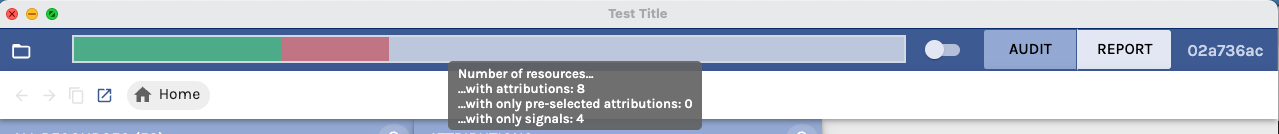
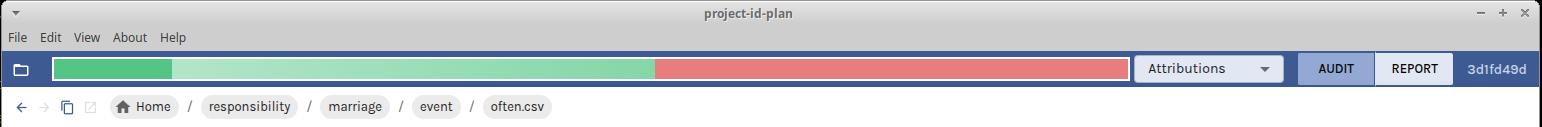
feat: add criticality to users guide

diff --git a/USER_GUIDE.md b/USER_GUIDE.md
@@ -64,15 +64,38 @@ to be recognized by the app.
 To open a `.opossum` file in the app, simply click the _Open File_ button on the left of the top bar (or on the entry in
 the _File_ menu with the same name).
 
+To quickly access recently opened Files, select the relevant file from the `Open Recent` submenu.
+
 ### Importing a File
 
 To import a legacy opossum file (`.json`/`.json.gz`) or a file produced by a scanner (e.g. a ScanCode Json file), click
-the _Import File_ item in the _File_ menu and select the desired file format from the submenu. You will be presented
+the _Import_ item in the _File_ menu and select the desired file format from the submenu. You will be presented
 with a dialog window where you can select the file that you wish to import. Because OpossumUI converts this file into a
 new `.opossum` file as part of the import process, you will also be prompted to select where this new `.opossum` file
 should be saved. Clicking the _Import_ button converts the file into a new `.opossum` file and opens it in OpossumUI.
 Please note that edits made through OpossumUI are **ONLY** saved in this new `.opossum` file, **NOT** in the file you
 selected for import.
+
+### Merging additional information
+
+To enrich your currently open file with additional information from a different scanner, open the _Merge_ item in the _File_ menu and select the desired file format.
+
+Note:
+
+- Merging a file will modify your currently open `.opossum` file and cannot be undone
+- Ensure that the paths in the merged file and the currently open file agree. Currently, there is no functionality to compensate differences.
+
+### Classifying signals
+
+To classify the severity of the various signals, OpossumUI supports two mechanisms.
+
+- **Criticality**: This classification encompasses three different levels:
+  - Non-critical/unknown
+  - Medium critical
+  - Highly critical
+- **Classification**: The classification allows the creator of the `.opossum` file to predefine a severity schema of the form: `severityLevel --> description`. `severityLevel` needs to be a positive integer. By convention, 0 implies that the signal can be used without issues and the severity rises with higher numbers.
+
+The relevant information needs to be already present in the `.opossum` files.
 
 ### Project Metadata
 
@@ -81,7 +104,7 @@ To view project metadata, open the `File` menu and select `Project Metadata`.
 ### Project Statistics
 
 To view project statistics, open the `File` menu and select `Project Statistics`. This opens a popup that shows various
-tables and pie charts summarizing the state of the project.
+charts summarizing the state of the project. Additionally, a table with detailed license statistics is provided.
 
 ### Exporting Formats
 
@@ -117,15 +140,16 @@ In the `Top Bar`, the following elements are present:
 
 - the _Open File_ button,
 - the `Progress Bar`,
-- the `Progress Bar Toggle`,
+- the `Progress Bar Dropdown`,
 - the `View Switch`,
 - the app version,
 - the path bar.
 
-The `Progress Bar` indicates how many files have manually received an attribution (dark green), how many have an automatically **pre-selected** attribution (lighter green with gradient), and how many files have a signal, but have not yet received an attribution (orange), with respect to the total number of files. Hovering on the bar shows a tooltip containing all four numbers. Clicking on the bar navigates to a file that has a signal, but no attribution.
+The `Progress Bar` exists in various versions which can be selected via the `Progress Bar Dropdown`. Note that the possibilities offered depend on the settings chosen in the _View_ menu. Currently, the following progress bars are offered:
 
-Clicking the `Progress Bar Toggle` replaces the `Progress Bar` by the `Critical Signals Progress Bar`. The `Critical Signals Progress Bar` indicates how many files have a highly critical signal but no attribution (red), a critical signal but no attribution (orange) with respect to the total number of files not having an attribution. Hovering on the bar shows a tooltip containing all 4 numbers. Clicking on the bar navigates to a file that has a critical signal,
-but no attribution.
+- The `Attributions` progress bar indicates how many resources have manually received an attribution (dark green), how many have an automatically **pre-selected** attribution (lighter green with gradient), and how many resources have a signal, but have not yet received an attribution (orange), with respect to the total number of files. Hovering on the bar shows a tooltip containing all four numbers. Clicking on the bar navigates to a resource that has a signal, but no attribution.
+- The `Criticalities` progress bar indicates how many files have a highly critical signal but no attribution (red), a critical signal but no attribution (orange) with respect to the total number of files not having an attribution. Hovering on the bar shows a tooltip containing all 4 numbers. Clicking on the bar navigates to a resource that has a critical signal, but no attribution.
+- The `Classifications` progress bar indicates the distribution of the signals without attributions on the configured classification levels. Hovering over the bar shows a tooltip with the exact numbers of all classifications. Clicking on the progress bar navigates to the attribution-less resource with the highest classification level.
 
 The `View Switch` allows to change between the `Audit View` and the `Report View`.
 
@@ -152,6 +176,8 @@ structure:
   that are included to visually collect a set of dependencies. These folders cannot have any signal or attribution.
   Furthermore, no attribution is inferred beyond such a breakpoint),
 - an **exclamation mark** ![integration](./docs/user_guide_screenshots/has_signals_icon.png) indicates the presence of signals attached to the resource.
+- a **flame icon** ![integration](./docs/user_guide_screenshots/criticality_icon.png) indicates the presence of a critical signal. The color scale indicates the criticality.
+- a **C-Icon** ![integration](./docs/user_guide_screenshots/classification_icon.png) indicates the presence of a signal with non-zero classification. The color scale indicates the number of the classification.
 
 The coloring scheme reads as follows:
 
@@ -196,6 +222,17 @@ Besides searching, sorting, and filtering signals according to your needs, you c
 - **delete:** soft-deletes the selected signals, i.e., hides them from the list
 - **restore:** restores the selected soft-deleted signals (only available when you include the deleted signals via the show/hide button)
 - **show/hide deleted signals:** shows/hides the soft-deleted signals
+
+Similar to the resource browser, icons on the attributions are used to highlight relevant properties of the attribution:
+
+- a **flame icon** ![integration](./docs/user_guide_screenshots/criticality_icon.png) indicates that the signal is marked as critical. The color scale indicates the criticality.
+- a **C-Icon** ![integration](./docs/user_guide_screenshots/classification_icon.png) indicates that the signal features a non-zero classification. The color scale indicates the number of the classification.
+- a **P-Icon** ![integration](./docs/user_guide_screenshots/preferred_icon.png) marks the signal as preferred
+- a **star icon** ![integration](./docs/user_guide_screenshots/previously_preferred_icon.png) shows that the signal has been preferred in the past.
+- an **icon with a one** ![integration](./docs/user_guide_screenshots/first_party_icon.png) marks the signal as being first party.
+- a **replay icon** ![integration](./docs/user_guide_screenshots/needs_follow_up_icon.png) marks the signal as requiring follow up
+- a **text with an x icon** ![integration](./docs/user_guide_screenshots/exclude_from_notice_icon.png) indicates that the signal is excluded from notice
+- a **checklist with a missing item** ![integration](./docs/user_guide_screenshots/incomplete_information_icon.png) indicates that the signal information is incomplete
 
 #### Attribution Details
 
